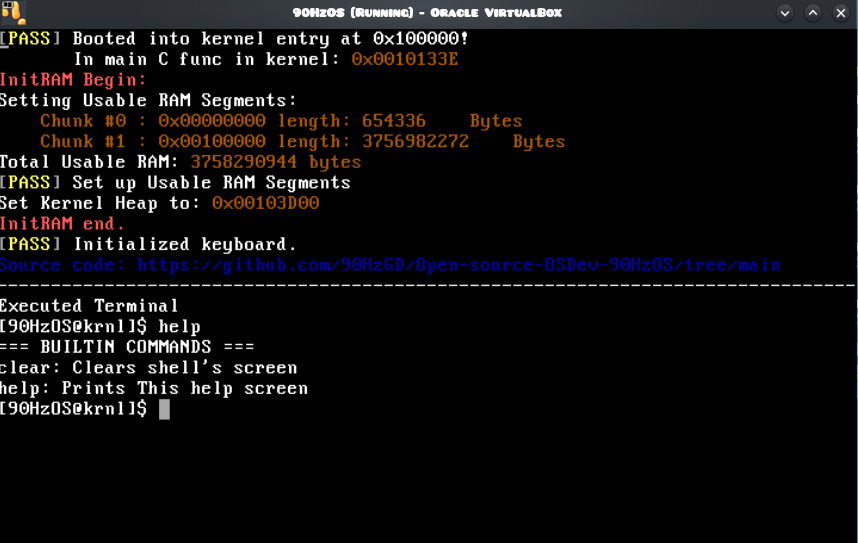
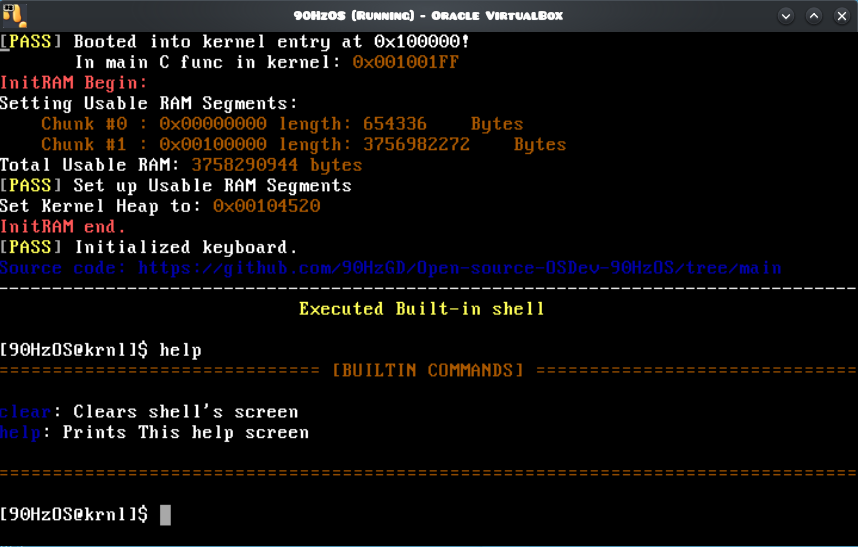
bugfixes

diff --git a/90HzOS/prog/src/shell.c b/90HzOS/prog/src/shell.c
@@ -15,7 +15,12 @@ void next_entry(int clear){
     if (clear >= 1){
         clear_screen();
     }
-    print_string("--------------------------------------------------------------------------------Executed Built-in shell", 0x0F, &position);
+    print_string("--------------------------------------------------------------------------------", 0x0F, &position);
+    unsigned char centerX = (80-length("Executed Built-in shell"))/2;
+    for (unsigned int i = 0; i != centerX; ++i){
+        print_char(' ', 0x00, &position);
+    }
+    printf("\033\16Executed Built-in shell\n\033\x0F");
     unsigned char ret = 0;
     while (!ret){
         ret = prompt(&position);
@@ -207,10 +212,10 @@ void clear(){
 }
 
 void help(){
-    print_string("\n=== [BUILTIN COMMANDS] ===", 0x06, &position);
+    printf("\n\033\x06============================== [BUILTIN COMMANDS] ==============================");
     for (unsigned int i = 0; *(builtin_commands.commands + i) != 0; ++i){
         printf("\n\033\x01%s\033\x0F: %s", *(builtin_commands.commands + i), *(builtin_commands.help + i));
     }
-    printf("\033\x06\n==========================\033\x0F");
+    printf("\n\n\033\x06================================================================================\033\x0F");
     return;
 }

diff --git a/90HzOS/kernel/src/mem/mem_alloc.c b/90HzOS/kernel/src/mem/mem_alloc.c
@@ -124,7 +124,8 @@ extern struct avail_RAM initRAMstruct;
         unsigned int* old_adr = current_adr;
         do {
             old_adr = current_adr;
-            current_adr += *(++current_adr)/4;
+            ++current_adr;
+            current_adr += *(current_adr)/4;
             ++current_adr;
         } while (current_adr != bloc - 2);
         current_adr = old_adr+2;
